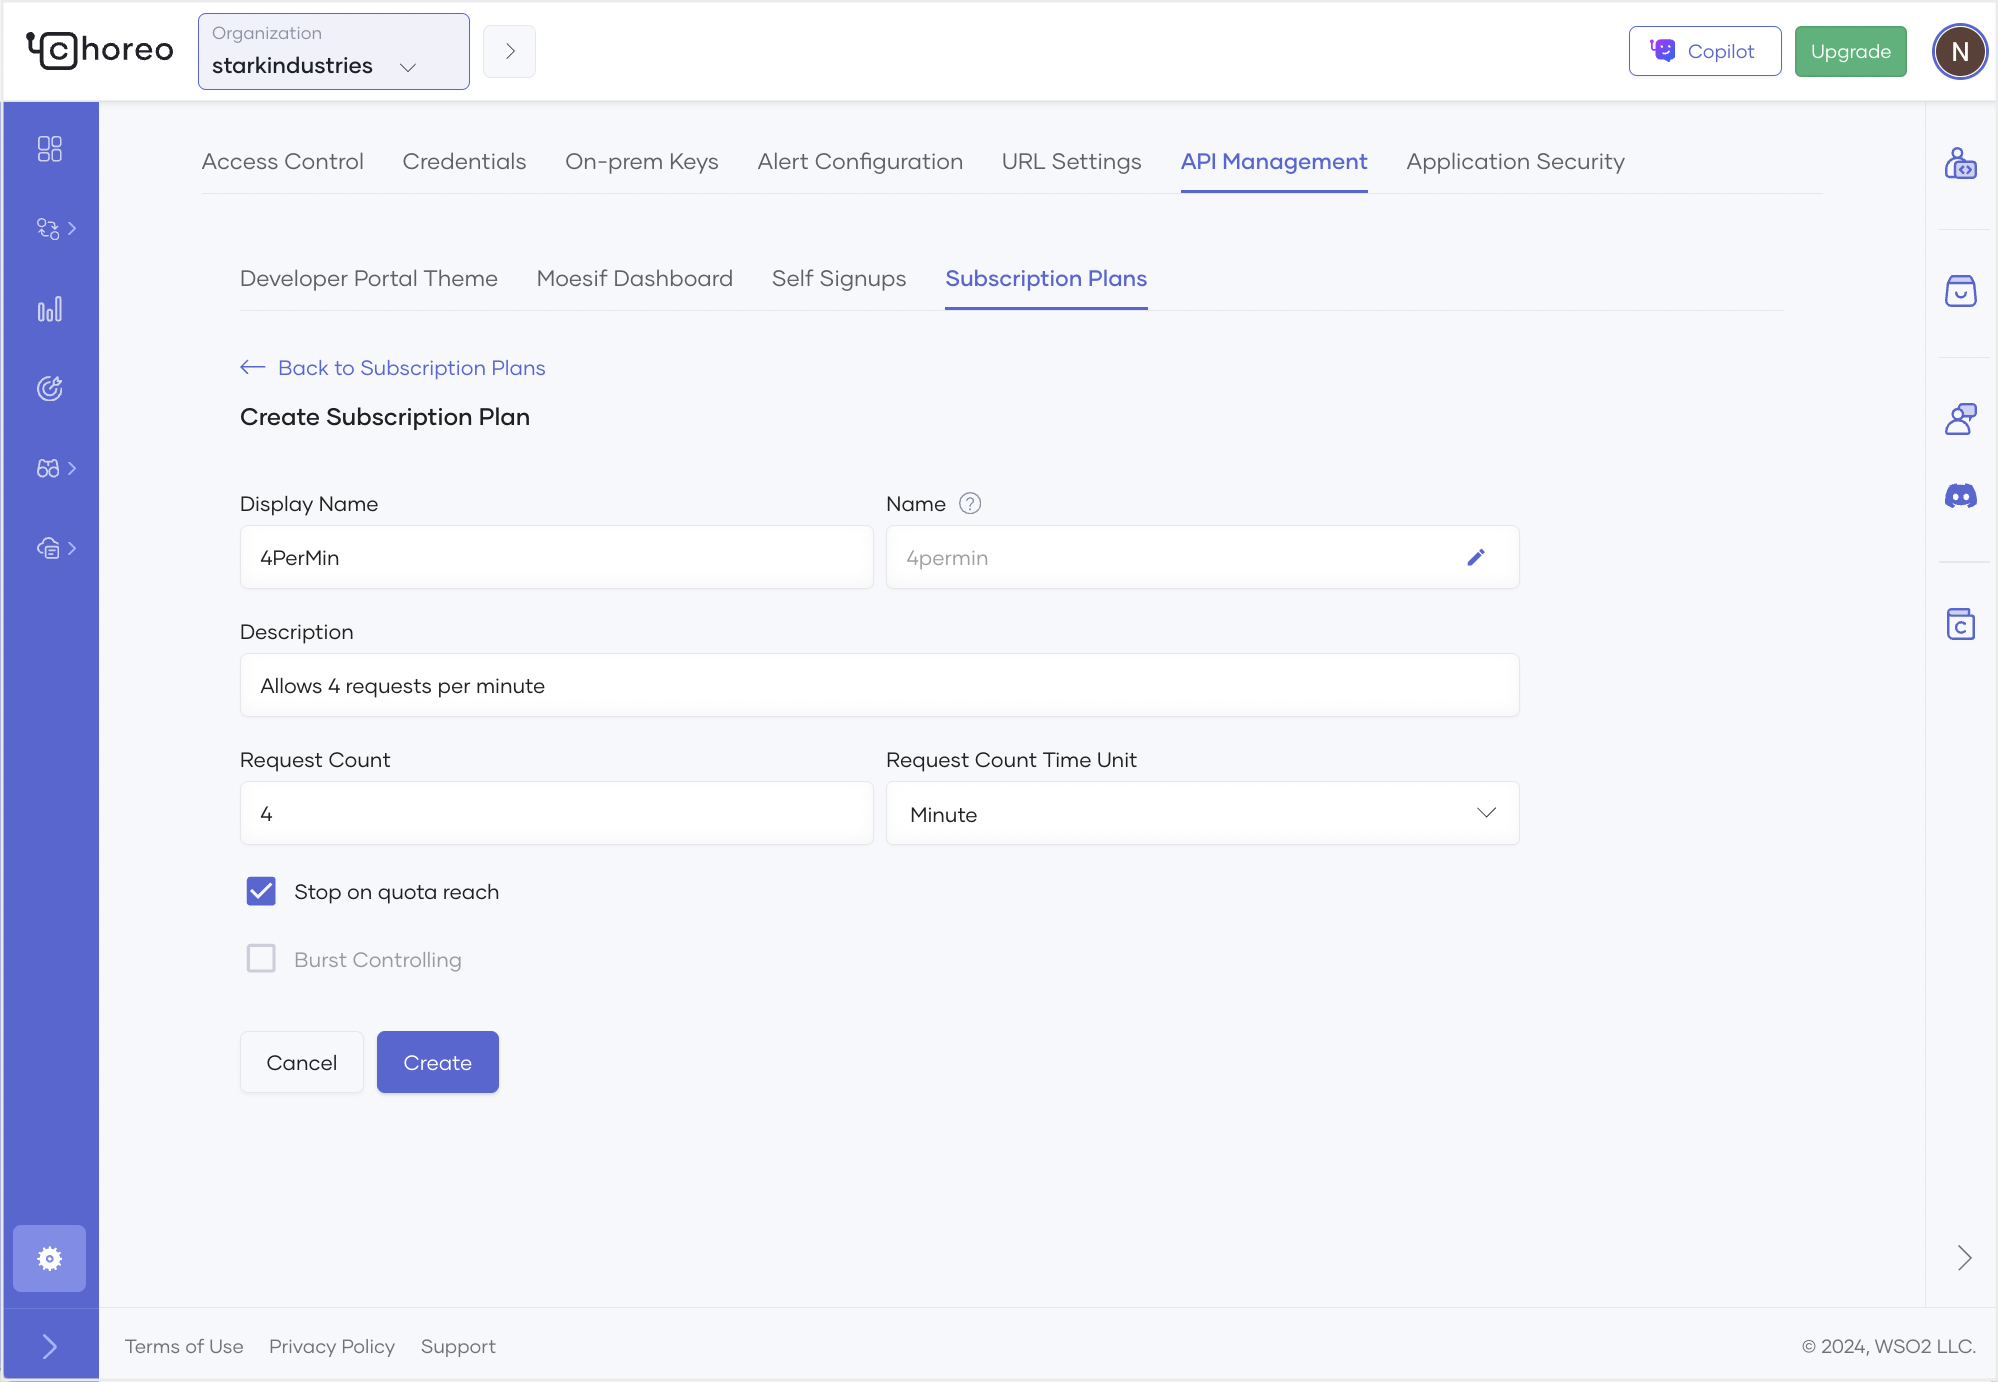
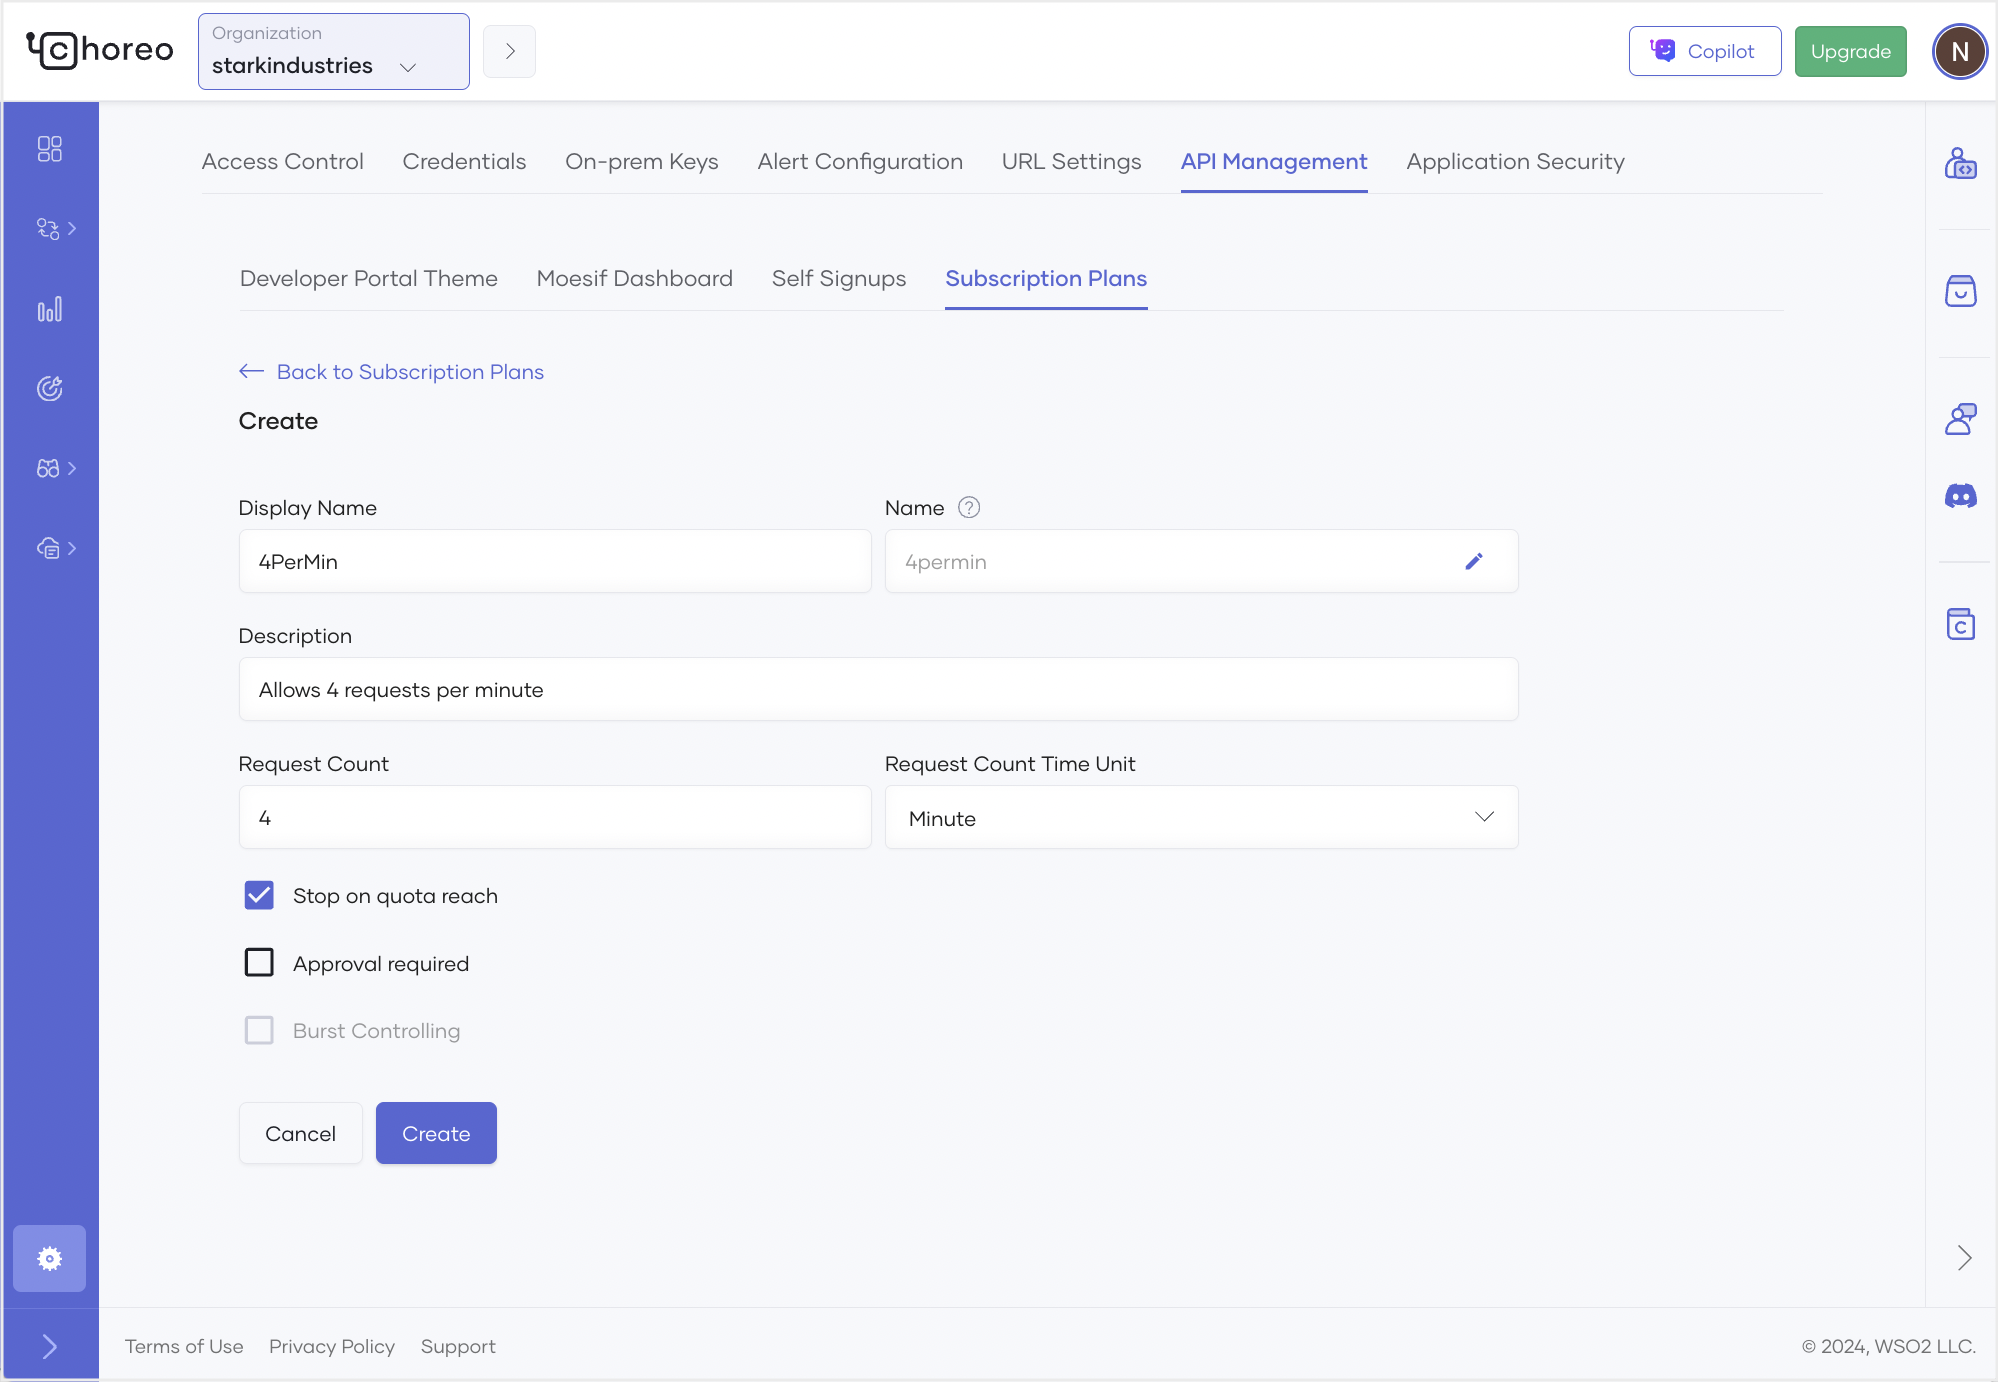
Added images and updated titles

diff --git a/en/docs/administer/create-api-subscription-plans.md b/en/docs/administer/create-api-subscription-plans.md
@@ -20,6 +20,7 @@ To create an organization-level subscription plan, follow the steps given below:
          - In the **Name** field, you must specify a name to uniquely identify the subscription plan in various contexts. The value is editable only at the time you create the subscription plan. You cannot change the name after you create it.
          - The **Stop on Quota Reach** checkbox is selected by default when creating a subscription plan. When selected, requests return an HTTP 429 response if the request count exceeds the limit. If you clear the checkbox, requests are allowed even if the quota is exceeded.
          - Burst control protects your backend from sudden request spikes and manages API usage. It’s especially useful for subscription plans where the request count is enforced over a long period, to prevent consumers from using their entire quota too quickly. Ensure you select the **Burst Control** checkbox when the **Request Count Time Unit** is selected as **Hour** or **Day**.
+         - Select the **Approval required** checkbox if you want to enforce administrator or API publisher approval for the subscription plan. This makes it necessary for API consumers to request approval for the subscription plan to use it for API access.
   
     ![Create subscription plan](../assets/img/administer/create-subscription-plan.png)
 

diff --git a/en/docs/api-management/manage-api-traffic/configure-subscription-approval.md b/en/docs/api-management/manage-api-traffic/configure-subscription-approval.md
@@ -1,6 +1,6 @@
 # Configure Subscription Approval
 
-Choreo allows you to create subscription plans that require approval before being used. This feature enables you to control access to APIs by requiring administrative review and authorization of subscriptions before they become active.
+Choreo allows you to create subscription plans that require approval before being activated. This feature enables you to control access to APIs by requiring administrative review and authorization of subscriptions before they become active.
 
 To use a subscription plan that requires approval, follow the steps given below:
 
@@ -17,6 +17,6 @@ To use a subscription plan that requires approval, follow the steps given below:
 3. Click on the subscription request you want to approve.
 4. In the **Subscription Request Approval** pane that opens, click **Approve**.
 
-    ![Approve subscription request](../../assets/img/api-management/manage-api-traffic/approve-subscription-request.png)
+    ![Approve subscription request](../../assets/img/api-management/manage-api-traffic/review-subscription-approval.png)
 
-5. The subscription request will be approved and the subscription will be activated.
+5. The subscription is now active and available in the DevPortal.
